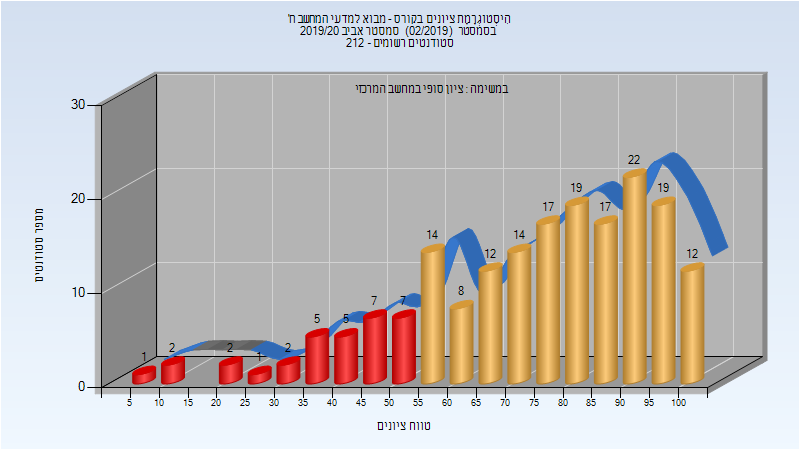
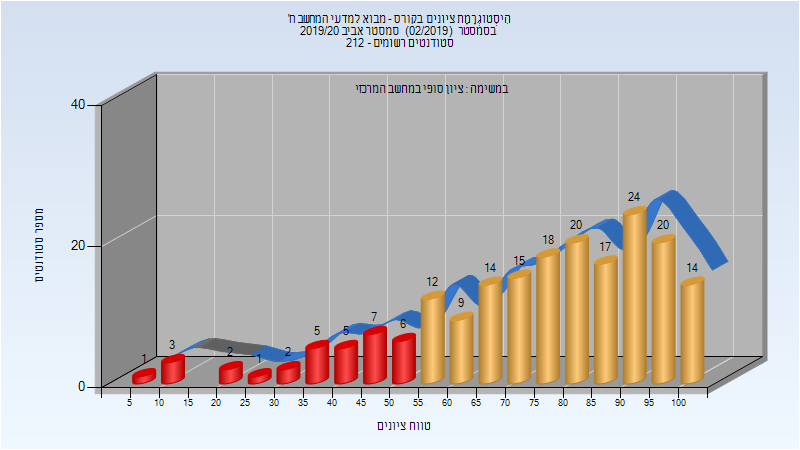
Deploy michael-maltsev/technion-histograms to github.com/michael-maltsev/technion-histograms.git:gh-pages

diff --git a/104031/index.html b/104031/index.html
@@ -2163,5 +2163,31 @@
 </tr>
 </tbody>
 </table>
+<h3>סופי מועד א'</h3>
+<p><img src="201903/Final_A.png" alt="201903 Final_A" /></p>
+<table>
+<thead>
+<tr>
+<th>סטודנטים</th>
+<th>עברו/נכשלו</th>
+<th>אחוז עוברים</th>
+<th>ציון מינימלי</th>
+<th>ציון מקסימלי</th>
+<th>ממוצע</th>
+<th>חציון</th>
+</tr>
+</thead>
+<tbody>
+<tr>
+<td>58</td>
+<td>39/19</td>
+<td>67</td>
+<td>16</td>
+<td>100</td>
+<td>70.397</td>
+<td>75.5</td>
+</tr>
+</tbody>
+</table>
   </body>
 </html>

diff --git a/104035/index.html b/104035/index.html
@@ -1215,13 +1215,13 @@
 </thead>
 <tbody>
 <tr>
-<td>81</td>
-<td>61/20</td>
-<td>75</td>
+<td>95</td>
+<td>69/26</td>
+<td>73</td>
 <td>8</td>
 <td>96</td>
-<td>68.383</td>
-<td>75</td>
+<td>65.453</td>
+<td>70</td>
 </tr>
 </tbody>
 </table>

diff --git a/234117/index.html b/234117/index.html
@@ -683,12 +683,12 @@
 </thead>
 <tbody>
 <tr>
-<td>186</td>
-<td>154/32</td>
-<td>83</td>
+<td>195</td>
+<td>163/32</td>
+<td>84</td>
 <td>9</td>
 <td>100</td>
-<td>74.156</td>
+<td>74.605</td>
 <td>78</td>
 </tr>
 </tbody>

diff --git a/104031/README.md b/104031/README.md
@@ -675,3 +675,11 @@
 | ---- | ---- | ---- | ---- | ---- | ---- | ---- |
 | 58 | 36/22 | 62 | 9 | 100 | 63.086 | 66.5 |
 
+### סופי מועד א'
+
+![201903 Final_A](201903/Final_A.png)
+
+| סטודנטים | עברו/נכשלו | אחוז עוברים | ציון מינימלי | ציון מקסימלי | ממוצע | חציון |
+| ---- | ---- | ---- | ---- | ---- | ---- | ---- |
+| 58 | 39/19 | 67 | 16 | 100 | 70.397 | 75.5 |
+

diff --git a/104035/README.md b/104035/README.md
@@ -380,7 +380,7 @@
 
 | סטודנטים | עברו/נכשלו | אחוז עוברים | ציון מינימלי | ציון מקסימלי | ממוצע | חציון |
 | ---- | ---- | ---- | ---- | ---- | ---- | ---- |
-| 81 | 61/20 | 75 | 8 | 96 | 68.383 | 75 |
+| 95 | 69/26 | 73 | 8 | 96 | 65.453 | 70 |
 
 ### סופי
 

diff --git a/234117/README.md b/234117/README.md
@@ -234,5 +234,5 @@
 
 | סטודנטים | עברו/נכשלו | אחוז עוברים | ציון מינימלי | ציון מקסימלי | ממוצע | חציון |
 | ---- | ---- | ---- | ---- | ---- | ---- | ---- |
-| 186 | 154/32 | 83 | 9 | 100 | 74.156 | 78 |
+| 195 | 163/32 | 84 | 9 | 100 | 74.605 | 78 |
 
